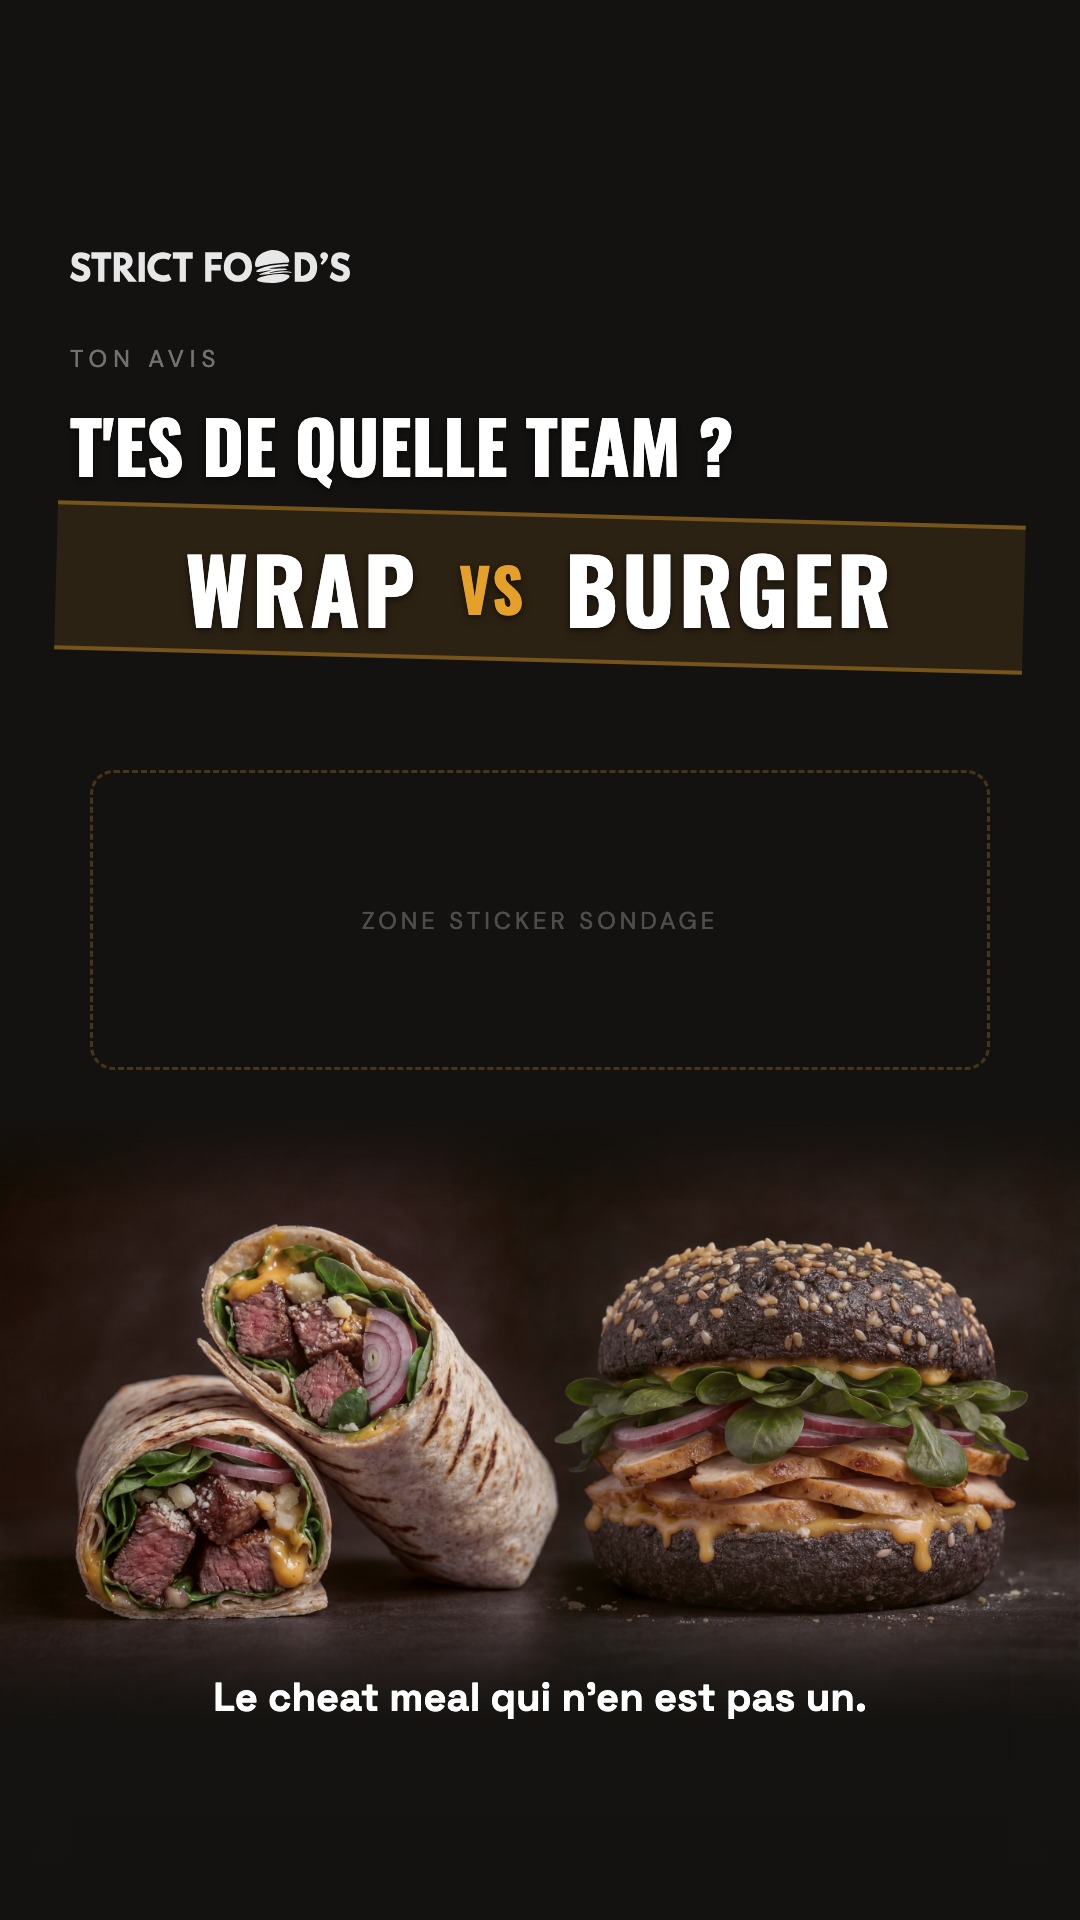
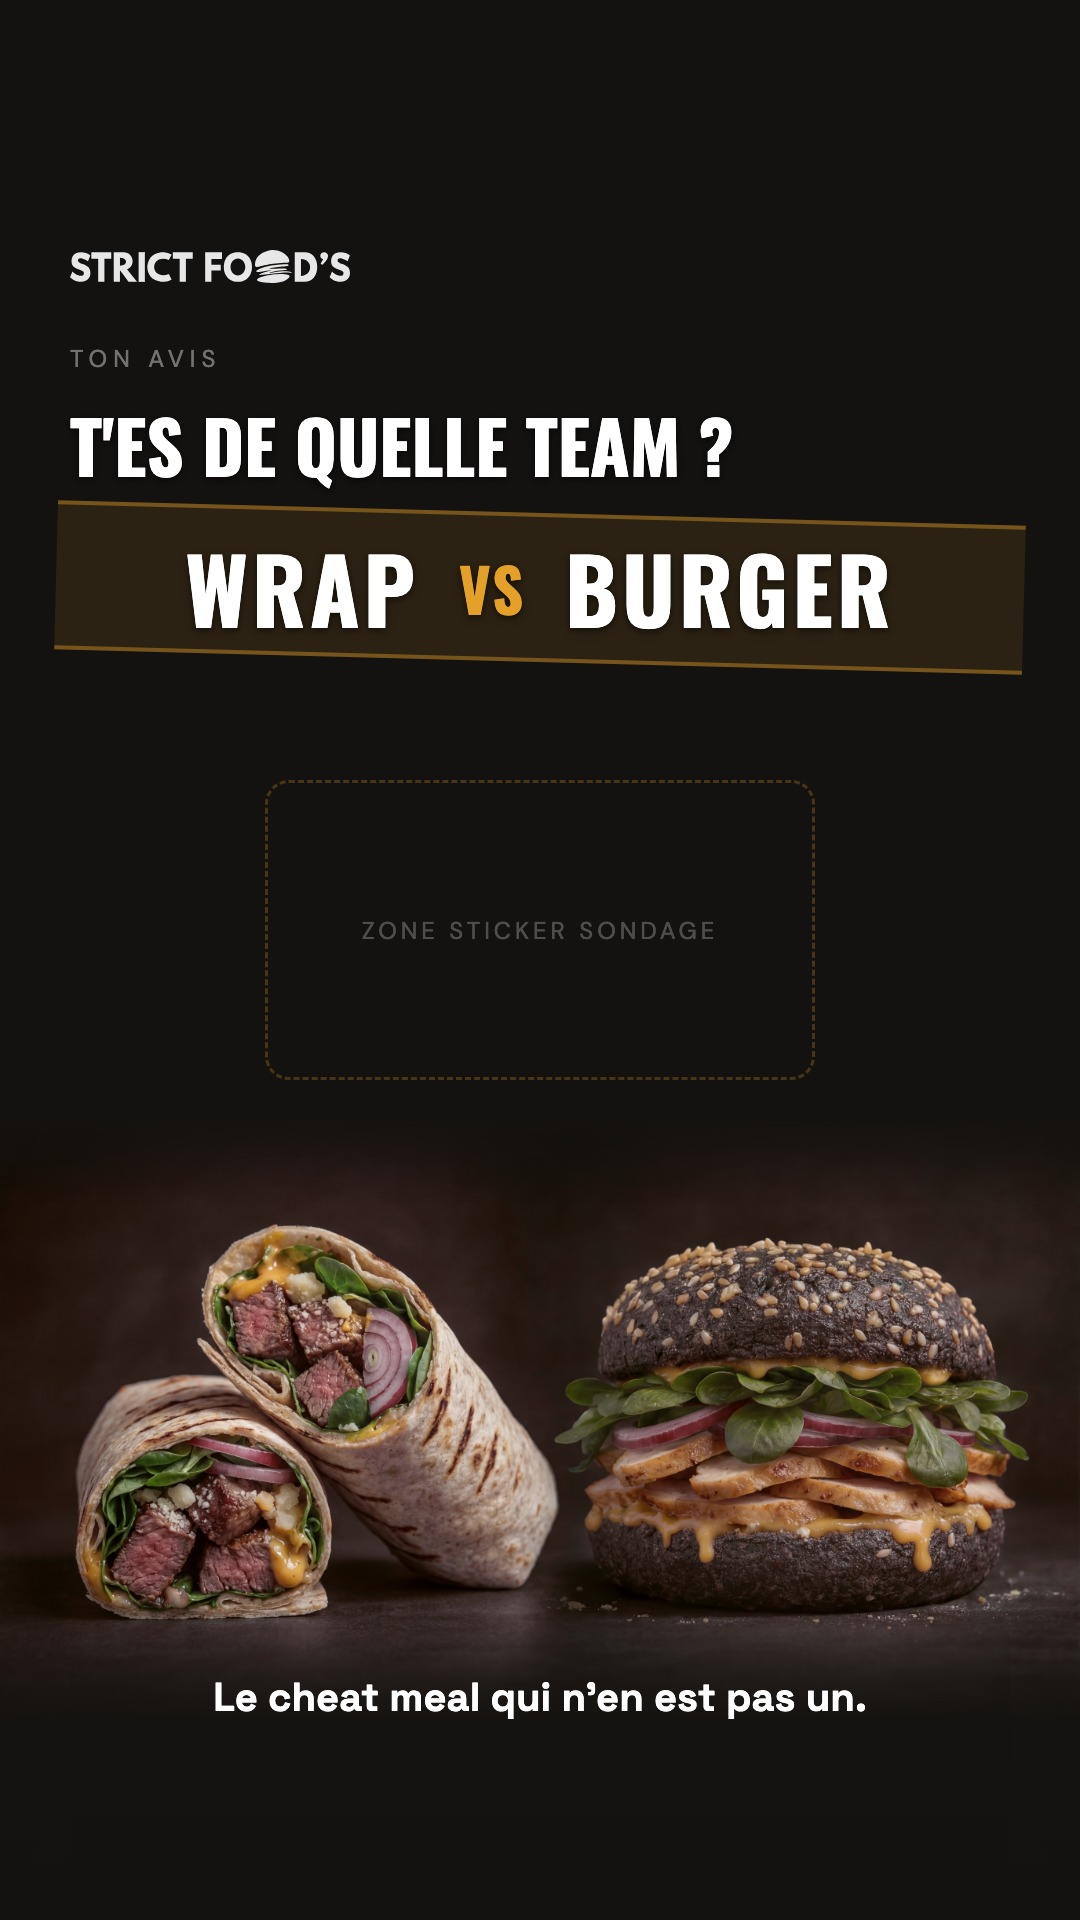
chore: update story-03 + add TODO and claude rules

diff --git a/production/posts-stories/stories/S1/jeudi/story-03.html b/production/posts-stories/stories/S1/jeudi/story-03.html
@@ -43,15 +43,15 @@
     /* Zone reservee au sticker Instagram */
     .sticker-zone {
       position: absolute;
-      width: 900px;
+      width: 550px;
       height: 300px;
       border: 3px dashed rgba(var(--accent-rgb),0.3);
       border-radius: 24px;
       display: flex;
       align-items: center;
       justify-content: center;
-      left: 90px;
-      bottom: 850px;
+      left: 265px;
+      bottom: 840px;
       z-index: 12;
     }
 

diff --git a/TODO.md b/TODO.md
@@ -1,0 +1,156 @@
+# TODO — client-strictfood
+
+<!-- neurolia-sync -->
+<!-- project: client-strictfood -->
+
+> StrictFood — Landing Page Dark Food Premium + Production Instagram
+> Derniere mise a jour : 2026-03-13
+
+---
+
+## Landing Page
+<!-- workstream: landing-page -->
+
+<!-- programme: Phase B02 — Homepage -->
+- [x] Section 1 — Hero <!-- nd:fd377ff7 p:normal -->
+- [x] Section 2 — Concept / Promesse <!-- nd:a802f9a7 p:normal -->
+- [x] Section 3 — Menu Highlights <!-- nd:03d3fbbe p:normal -->
+- [x] Section 4 — Engagement qualite <!-- nd:4bfce58e p:normal -->
+- [x] Section 5 — Temoignages / Social Proof <!-- nd:1d7e494a p:normal -->
+- [ ] Section 6 — Contact & Horaires <!-- nd:a4e2905c p:urgent -->
+
+<!-- programme: Phase B03 — Pages secondaires -->
+- [ ] Page /la-carte (menu complet) <!-- nd:4ebad11a p:normal -->
+- [ ] Page mentions-legales <!-- nd:6f705951 p:normal -->
+
+<!-- programme: Phase B04-B06 — Polish & Deploy -->
+- [ ] B04 — Polish global (animations, responsive, micro-interactions) <!-- nd:1a561f4c p:normal -->
+- [ ] B05 — Validation cross-browser et lighthouse <!-- nd:123dedb6 p:normal -->
+- [ ] B06 — Deploiement production + DNS <!-- nd:e8876125 p:normal -->
+- [ ] Polish : animations + SEO + cohérence <!-- nd:2bb5fee9 p:normal -->
+- [ ] Page mentions légales <!-- nd:e6d1ca6d p:normal -->
+- [x] Section Carte / Menu <!-- nd:27b4622f p:normal -->
+- [ ] Section Contact & Horaires <!-- nd:4c4b3651 p:urgent -->
+- [x] Section Avis & Confiance <!-- nd:b152dc3b p:normal -->
+- [x] Section Hero <!-- nd:b263ff6c p:normal -->
+- [x] Section La Promesse <!-- nd:fad5f54b p:normal -->
+- [x] Section Nos Artisans <!-- nd:d286a1ea p:normal -->
+- [x] Section Expérience <!-- nd:15cdb3d7 p:normal -->
+
+---
+
+## Strategie Marque
+<!-- workstream: strategie-marque -->
+
+<!-- programme: Brand Foundation -->
+- [x] Plateforme de marque StrictFood <!-- nd:ae06b593 p:normal -->
+- [x] Art direction et emotion map <!-- nd:c96cc85b p:normal -->
+- [x] Design tokens dans globals.css <!-- nd:64dc9aae p:normal -->
+- [x] Wireframes homepage + pages <!-- nd:1e2dc884 p:normal -->
+
+---
+
+## Production Instagram
+<!-- workstream: production-instagram -->
+
+<!-- programme: Pipeline contenu -->
+- [ ] Configurer le pipeline Instagram (production/CLAUDE.md) <!-- nd:375bac09 p:normal -->
+- [ ] Creer les premiers posts de lancement <!-- nd:1fb1fe5d p:normal -->
+- [ ] Definir la grille visuelle Instagram <!-- nd:290822df p:normal -->
+
+---
+
+## Formulaires
+<!-- workstream: formulaires -->
+
+<!-- programme: Outils clients -->
+- [x] Formulaire devis (devis-strictfood.vercel.app) <!-- nd:6fddac5d p:normal -->
+- [x] Formulaire plateforme de marque <!-- nd:454fa78f p:normal -->
+- [ ] Formulaire de strategie marketing <!-- nd:d08eabab p:low -->
+
+
+---
+
+## Banque de Contenus Photo
+<!-- workstream: banque-contenus-photo -->
+- [ ] Sublimation DA "Dark Food Premium" des produits <!-- nd:5b2cb6cd p:urgent a:joris -->
+- [x] Tri et détourage des clichés bruts <!-- nd:01699e23 p:normal -->
+- [ ] Photos produits détourées site + Uber Eats <!-- nd:2f138a7e p:normal a:dorian -->
+
+---
+
+## Direction Artistique
+<!-- workstream: direction-artistique -->
+- [x] Charte DA applicable tous livrables <!-- nd:86cacb0b p:normal -->
+- [x] Style photographique Dark Food Premium <!-- nd:8ed058ce p:normal -->
+- [x] Typographie et palette de couleurs <!-- nd:18f629aa p:normal -->
+- [x] Formulaire de marque (Brand Audit) <!-- nd:63e36f13 p:normal -->
+
+---
+
+## Google Business Profile
+<!-- workstream: google-business-profile -->
+- [ ] Dispositif QR Code / carte NFC comptoir <!-- nd:fecd34a0 p:normal -->
+- [ ] Lien vers le site web <!-- nd:d24ac980 p:normal -->
+- [ ] Menu propre en PDF/Images <!-- nd:a554e1e7 p:normal -->
+- [ ] Ajout photos de qualité <!-- nd:d882b2f6 p:normal -->
+- [ ] Micro-landing page collecte + avis <!-- nd:f2b6e59e p:normal -->
+
+---
+
+## Instagram
+<!-- workstream: instagram -->
+
+<!-- programme: Periode 2 -->
+- [ ] Carrousels éducatifs macros <!-- nd:4145fade p:normal -->
+- [ ] Réponse systématique commentaires/DM <!-- nd:2006fe6e p:normal -->
+- [ ] Premiers Reels natifs (4+ sur le mois) <!-- nd:6c17e757 p:normal -->
+- [ ] Analyse données : piliers, jours, formats <!-- nd:9f2bdcd2 p:normal -->
+
+<!-- programme: P1 — Templates Stories -->
+- [ ] `educatif.html` : ajouter un slot optionnel pour image produit hero (`.product-hero` + `.zone-blend`) avec `display: {{SHOW_PRODUCT}}`, pour eviter le CSS custom a chaque story <!-- nd:ce6eb261 p:normal -->
+- [ ] `interactif.html` : ajouter une variante quiz (4 choix) et slider emoji en plus du sondage 2 choix <!-- nd:f866f127 p:low -->
+- [ ] Eliminer la duplication CSS : les stories output doivent `<link>` vers `base.css` + le CSS du template, et n'ajouter que les overrides specifiques en `<style>` inline <!-- nd:d1738fcf p:low -->
+
+<!-- programme: Periode 3 -->
+- [ ] Lancement 2-3 séries récurrentes <!-- nd:fbe2dd98 p:low -->
+- [ ] Activation UGC (sticker, mention comptoir) <!-- nd:5f4886b5 p:low -->
+- [ ] Optimisation calendrier selon data mois 2 <!-- nd:16c0ab81 p:low -->
+- [ ] Montée en puissance Reels (6+/mois) <!-- nd:12d5ea05 p:low -->
+
+<!-- programme: P1 — Trial Reels -->
+- [ ] Definir le CTA et le lien — chaque Reel d'essai doit diriger vers le site ou la bio. CTA recommande : adresse physique en texte overlay + sticker localisation Chateau Roussillon <!-- nd:aa5f8040 p:normal -->
+
+<!-- programme: P1 — Stories S1 -->
+- [ ] Coordonner avec Romain/Dorian les stories terrain (mardi arrivage, mercredi cuisine, vendredi rush, samedi CTA) <!-- nd:5c877ff9 p:normal -->
+
+<!-- programme: P1 — Stories S2 -->
+- [ ] Produire les stories automatisables S2 <!-- nd:438eedaa p:normal -->
+
+---
+
+## TikTok
+<!-- workstream: tiktok -->
+- [ ] Montage DA Dark Food Premium <!-- nd:6dbb7384 p:normal -->
+- [ ] Publication 1-2 posts/semaine <!-- nd:cf403dce p:normal -->
+- [ ] Concepts créatifs et briefs visuels <!-- nd:eab36205 p:normal -->
+- [ ] Premier shooting vidéaste <!-- nd:e173f893 p:urgent -->
+
+---
+
+## Refonte Uber Eats
+<!-- workstream: refonte-uber-eats -->
+- [ ] Refonte visuelle avec nouveaux visuels DA <!-- nd:67323d69 p:normal -->
+- [ ] Création formules + cross-selling <!-- nd:1a126c41 p:normal -->
+- [ ] Restructuration catégories menu <!-- nd:975125e0 p:normal -->
+- [ ] Optimisation prix vs commissions plateforme <!-- nd:32a3ecd0 p:normal -->
+
+---
+
+## Capture Données Clients
+<!-- workstream: capture-donnees-clients -->
+- [ ] Centralisation données Google Sheet <!-- nd:01a8cfc5 p:low -->
+- [ ] Formulaire inscription landing page principale <!-- nd:99bac7e0 p:normal -->
+- [ ] Incentive -10% + redirection avis Google <!-- nd:1b301afb p:normal -->
+- [ ] Formulaire rapide prénom + email/tel <!-- nd:e9c12284 p:normal -->
+- [ ] Micro-landing page collecte (strictfood.fr/avis) <!-- nd:32407f92 p:normal -->

diff --git a/.claude/rules/todo-check.md b/.claude/rules/todo-check.md
@@ -1,0 +1,8 @@
+Quand tu commences une session de travail :
+
+1. **Lis TODO.md** a la racine du repo pour voir les taches en cours
+2. Les workstreams nommes `{sujet} — {expediteur} ({date})` sont des **demandes client par email** — traite-les en priorite
+3. Priorise les taches marquees `p:urgent` avant `p:normal`
+4. Quand tu termines une tache, marque-la `[x]` dans TODO.md et inclus TODO.md dans le commit
+5. Ne supprime jamais de lignes — marque `[x]`
+6. Ne modifie pas les tags `nd:` existants
